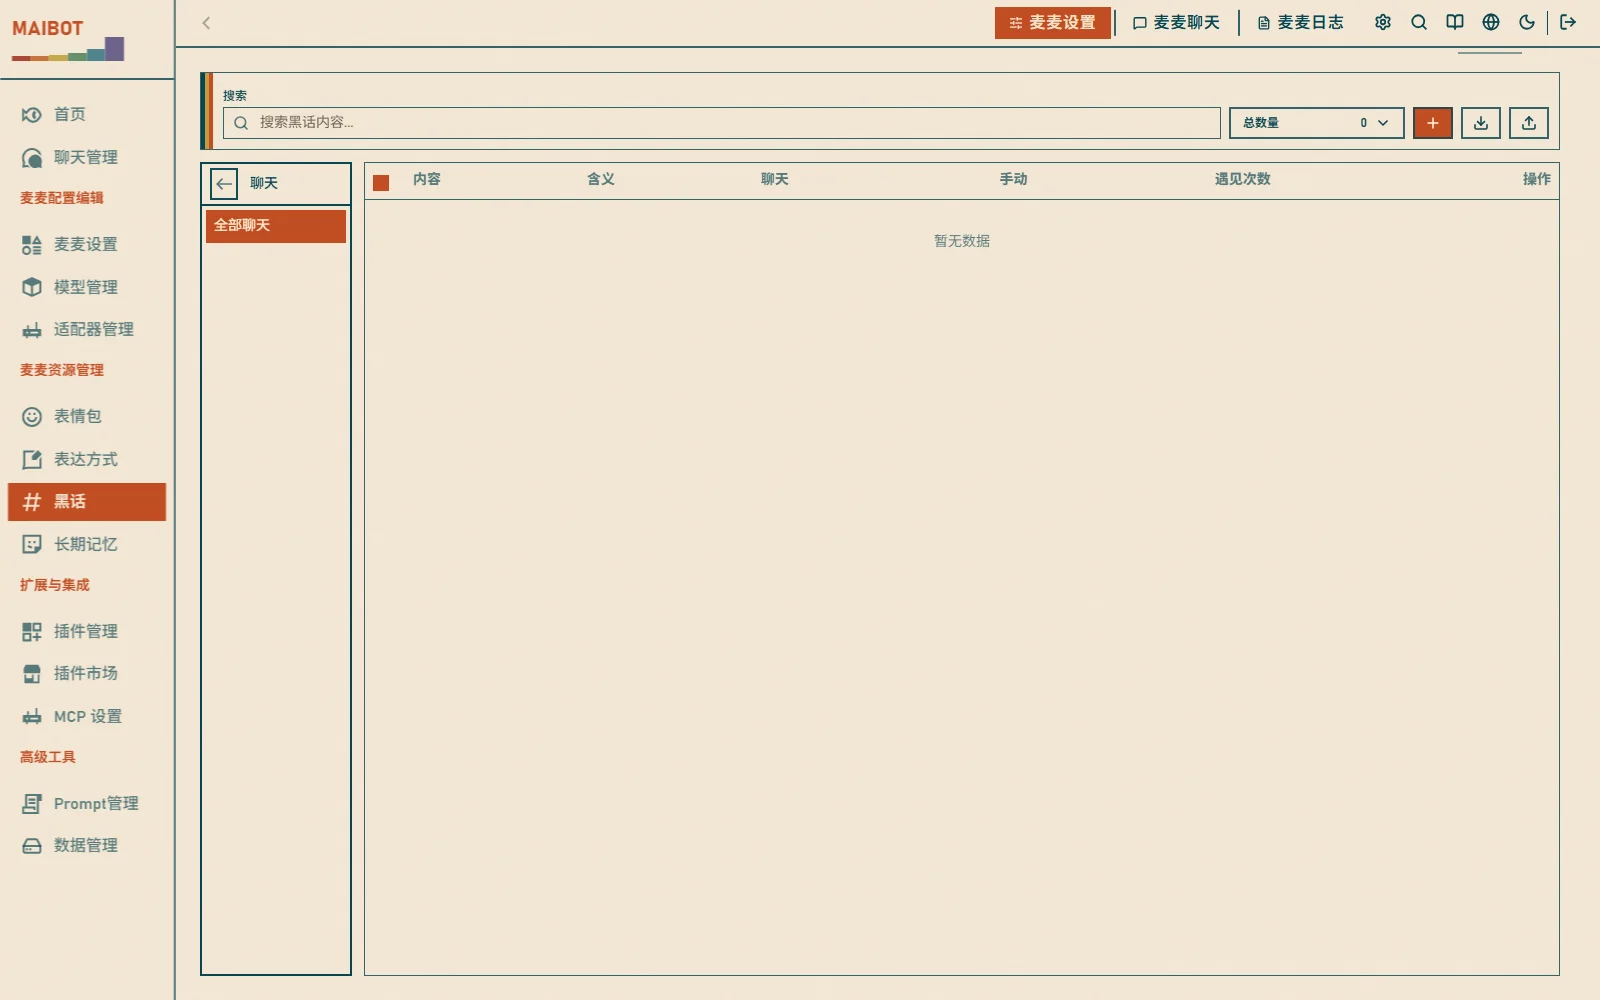
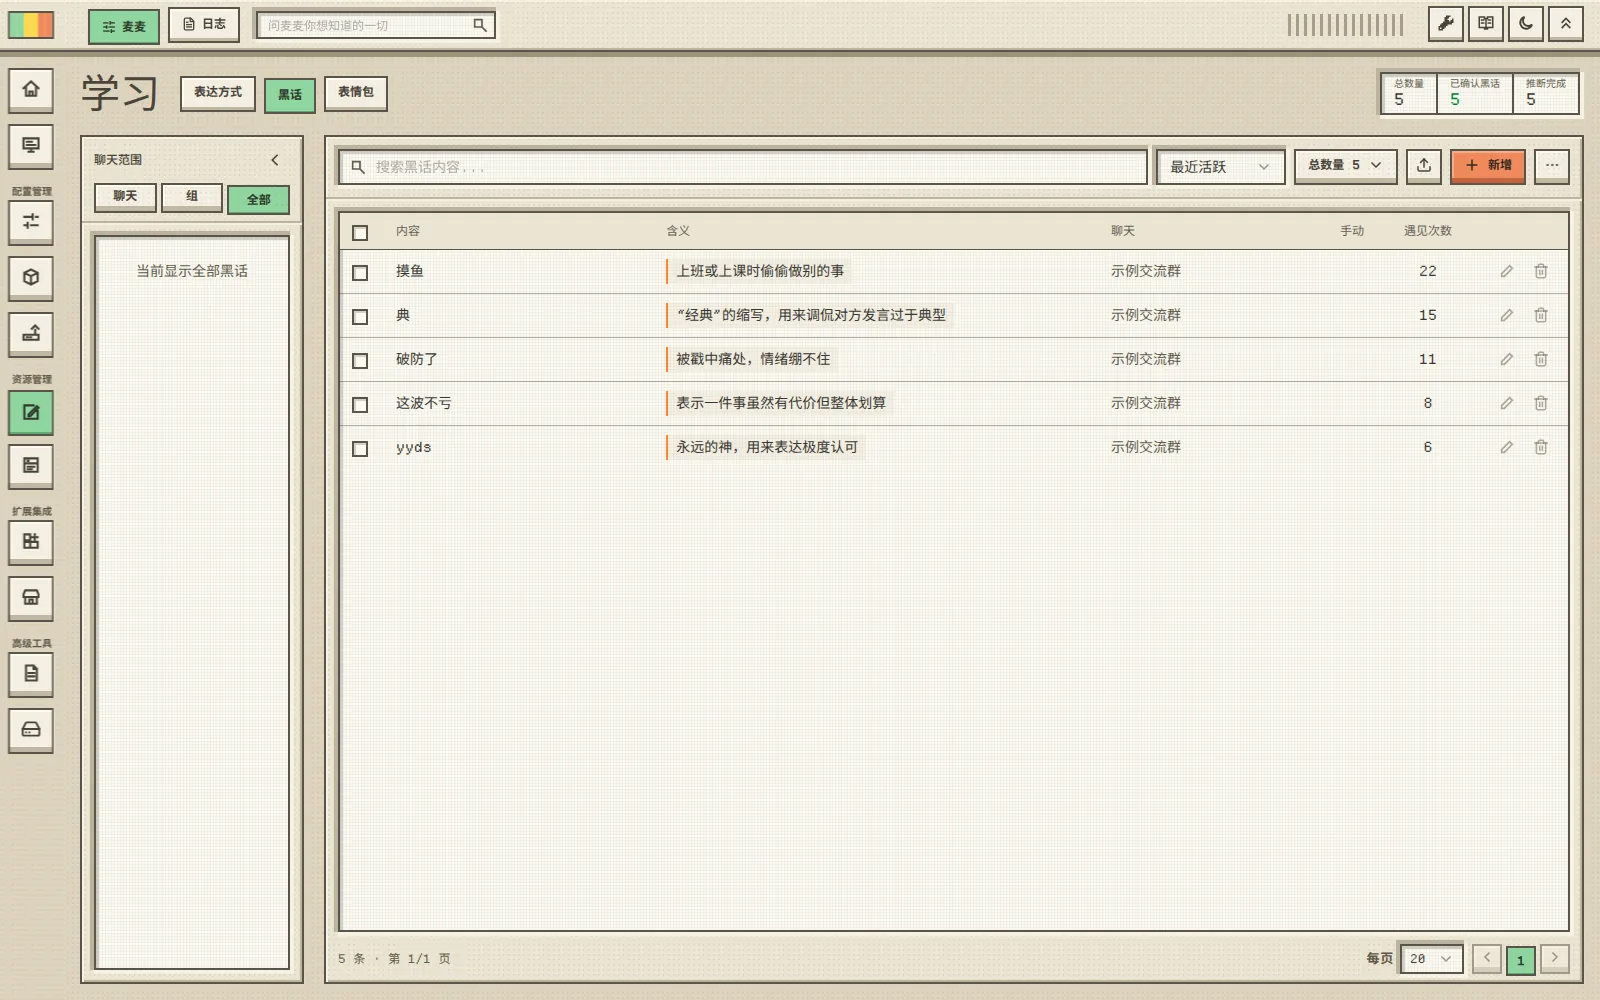
docs(manual): 新增 WebUI 学习管理与日志页（zh + en 镜像）
- 学习管理页：表达方式、黑话、表情包三个标签的审核与维护
- 日志页：终端日志的模块/级别过滤、搜索与导出；推理过程与详细统计指向统计与观察页
- 刷新页面引用的截图
- 注册 zh/en 侧边栏，WebUI 常用页面与快速上手入口补链接

diff --git a/.vitepress/sidebar/en.ts b/.vitepress/sidebar/en.ts
@@ -99,7 +99,9 @@ const manualSidebar: DefaultTheme.SidebarItem[] = [
       { text: 'Command Management', link: '/en/manual/webui/command-management' },
       { text: 'Chat Management', link: '/en/manual/webui/chat-management' },
       { text: 'Memory', link: '/en/manual/webui/memory-management' },
+      { text: 'Learning', link: '/en/manual/webui/learning' },
       { text: 'Statistics and Observation', link: '/en/manual/webui/statistics' },
+      { text: 'Logs', link: '/en/manual/webui/logs' },
       { text: 'Files and Attachments', link: '/en/manual/webui/files' },
       { text: 'Data Management', link: '/en/manual/webui/data-management' },
     ]

diff --git a/.vitepress/sidebar/zh.ts b/.vitepress/sidebar/zh.ts
@@ -112,7 +112,9 @@ const manualSidebar: DefaultTheme.SidebarItem[] = [
       { text: '命令管理', link: '/manual/webui/command-management' },
       { text: '聊天管理', link: '/manual/webui/chat-management' },
       { text: '记忆管理', link: '/manual/webui/memory-management' },
+      { text: '学习管理', link: '/manual/webui/learning' },
       { text: '统计与观察', link: '/manual/webui/statistics' },
+      { text: '日志', link: '/manual/webui/logs' },
       { text: '文件与附件', link: '/manual/webui/files' },
       { text: '数据管理', link: '/manual/webui/data-management' },
     ]

diff --git a/en/manual/webui/learning.md b/en/manual/webui/learning.md
@@ -1,0 +1,52 @@
+---
+title: Learning Management
+---
+
+# Learning Management
+
+The **学习** (Learning) page (`/resource/learning`) under "资源管理" (Resources) in the sidebar manages what Mai has learned from chats, split into three tabs: "表达方式" (Expressions), "黑话" (Jargon), and "表情包" (Emoji stickers).
+
+## Expressions
+
+Mai learns how people talk in chats: which situation calls for which style, and which sentences were actually used. The list groups entries by situation and shows the situation, style, and curated status.
+
+![Expressions](/images/webui/expression.webp)
+
+- **Chat scope** — filter by chat stream or shared group on the left; "全部" (All) shows every source, and each scope has "学习" (Learn) and "使用" (Use) switches
+- **Sorting** — "最近活跃" (Recently active) orders by last use; "仅精选" (Curated only) shows expressions marked as curated
+- **New / Edit / Delete** — add expressions by hand or fix ones learned incorrectly
+- **Export** — export the expressions in the current scope for backup or migration
+- **Card review** — swipe through expressions to approve or reject them one by one: only approved expressions are used, and rejected ones are deleted immediately; "AI审核记录" (AI review history) sits alongside
+- **Clusters** — "聚类" in the "更多操作" (More actions) menu browses expressions by semantic similarity
+
+## Jargon
+
+The jargon tab records slang and abbreviations used in the group, along with their meanings and occurrence counts.
+
+![Jargon](/images/webui/jargon.webp)
+
+- The top shows the total count, confirmed jargon, and completed inferences
+- Each row shows the term, meaning, source chat, whether it was added manually, and how often it was seen
+- "新增黑话" (New jargon) adds an entry by hand; "查看/编辑" (View/Edit) fixes the meaning; "删除" (Delete) removes it
+- "导出黑话" (Export jargon) exports the current scope
+
+## Emoji Stickers
+
+The emoji tab manages the stickers Mai can send: upload, review, block, and delete.
+
+![Emoji stickers](/images/webui/emoji.webp)
+
+- **Status filter** — registered, pending · recognized, pending · unrecognized, disabled, or all
+- **Format and sorting** — filter by format, sort by registration or upload time, and switch card size
+- **Upload** — add a new sticker; its content is recognized automatically and it lands in "pending · recognized" or "pending · unrecognized" based on the result
+- **Card actions** — edit the description, block it (stop sending), or delete it
+
+## Learning Scope
+
+Expression and jargon learning scopes are controlled by `[expression].learning_list` and `[jargon].learning_list`; each chat stream can also turn learning and use on or off in its settings. See [Bot Config → Learning Systems](../configuration/bot-config.md#learning-systems) for the scope and blocklist syntax.
+
+## Related Docs
+
+- [Bot Config → Learning Systems](../configuration/bot-config.md#learning-systems) — `learning_list`, `learning_blacklist`, and shared groups
+- [Bot Config → Collect Emoji Stickers](../configuration/bot-config.md#collect-emoji-stickers) — automatic sticker collection, capacity, and replacement
+- [Chat Management](./chat-management.md) — turn learning and use on or off in chat stream settings

diff --git a/zh/manual/webui/learning.md b/zh/manual/webui/learning.md
@@ -1,0 +1,52 @@
+---
+title: 学习管理
+---
+
+# 学习管理
+
+侧边栏「资源管理 → 学习」（`/resource/learning`）集中管理麦麦从聊天里学到的东西，分「表达方式」「黑话」「表情包」三个标签。
+
+## 表达方式
+
+麦麦会在聊天里学习别人怎么说话：什么情境、用什么风格、说过哪些句子。列表按情境分行，显示情境、风格和精选状态。
+
+![表达方式](/images/webui/expression.webp)
+
+- **聊天范围** — 左侧按聊天流或共享组过滤，「全部」显示所有来源；每个范围旁边有「学习」和「使用」开关
+- **排序** — 「最近活跃」按最近使用时间排序，「仅精选」只显示标为精选的表达
+- **新增 / 编辑 / 删除** — 手动补充表达方式，或修正学错的内容
+- **导出** — 把当前范围的表达方式导出成文件，方便备份或迁移
+- **卡片审核** — 用滑卡方式逐条「通过」或「拒绝」：通过的表达才会被使用，拒绝的会直接删除；旁边可以查看「AI审核记录」
+- **聚类** — 「更多操作」里的「聚类」按语义相似度浏览表达方式
+
+## 黑话
+
+黑话标签记录群里的梗和缩写，以及它们的含义和出现次数。
+
+![黑话](/images/webui/jargon.webp)
+
+- 顶部统计总数量、已确认黑话和推断完成的数量
+- 列表显示内容、含义、来源聊天、是否手动添加和遇见次数
+- 「新增黑话」手动录入；「查看/编辑」修正含义；「删除」移除
+- 「导出黑话」导出当前范围的黑话
+
+## 表情包
+
+表情包标签管理麦麦能发的表情：上传、审核、封禁和删除。
+
+![表情包](/images/webui/emoji.webp)
+
+- **状态筛选** — 已注册、待审核 · 已识别、待审核 · 未识别、已禁用、全部
+- **格式与排序** — 按格式筛选，按注册时间或上传时间排序，切换卡片大小
+- **上传** — 添加新表情，上传后自动识别内容，再按识别结果进入「待审核 · 已识别」或「待审核 · 未识别」
+- **卡片操作** — 编辑描述、封禁（不再发送）、删除
+
+## 学习范围
+
+表达和黑话的学习范围由 `[expression].learning_list` 和 `[jargon].learning_list` 控制，每个聊天流也可以在聊天流设置里单独开关学习和使用。范围和黑名单的写法见 [Bot 配置 → 学习系统](../configuration/bot-config.md#学习系统)。
+
+## 相关文档
+
+- [Bot 配置 → 学习系统](../configuration/bot-config.md#学习系统) — `learning_list`、`learning_blacklist` 与共享组
+- [Bot 配置 → 收集表情包](../configuration/bot-config.md#收集表情包) — 表情包自动收集、容量与替换
+- [聊天管理](./chat-management.md) — 在聊天流设置里开关学习和使用

diff --git a/en/manual/webui/logs.md b/en/manual/webui/logs.md
@@ -1,0 +1,33 @@
+---
+title: Logs
+---
+
+# Logs
+
+The Logs page (`/logs`) collects MaiBot's runtime logs in one place: filter by module and level, search by keyword, and export to a file. The "Reasoning" and "Detailed statistics" tabs on the same page are covered in [Statistics and Observation](./statistics.md).
+
+## Terminal
+
+![Terminal logs](/images/webui/logs-terminal.webp)
+
+- **Module filter** — the left side lists log sources (`WebUI`, `webui.chat`, the chat manager, `maibot_statistic`, and so on); pick one to see only that module's output
+- **Level** — choose the minimum level to show that level and above
+- **Time and keywords** — filter by time range, or type keywords in the search box
+- **Scrolling** — new logs scroll to the bottom automatically; scrolling back pauses it
+- **Clear / Export** — clear the current view or export the logs as a TXT file
+
+The top of the page shows the live connection status and how many log entries are loaded.
+
+## Verification and Troubleshooting
+
+**Verify**: set the level to `ERROR` — the panel should immediately show only errors; export a TXT and open it to confirm the content is complete.
+
+- **No new logs** — check the connection status at the top of the page; the page needs to reconnect after the host restarts.
+- **Logs scroll too fast to read** — narrow the module filter or time range; logs are also written to the instance's `logs/` directory, so you can read the files directly.
+- **Keyword search finds nothing** — switch the module filter back to "All" first; the module filter applies to search results too.
+
+## Related Docs
+
+- [Bot Config → Check Logs First When Debugging](../configuration/bot-config.md#check-logs-first-when-debugging) — log levels, file count, and retention
+- [Statistics and Observation](./statistics.md) — reasoning traces and detailed statistics
+- [Data Management](./data-management.md) — package up logs and statistics for export

diff --git a/zh/manual/webui/logs.md b/zh/manual/webui/logs.md
@@ -1,0 +1,33 @@
+---
+title: 日志
+---
+
+# 日志
+
+「日志」页（`/logs`）集中看主程序的运行日志：按模块和级别过滤，支持关键词搜索和导出。同一页的「推理过程」「详细统计」两个标签见[统计与观察](./statistics.md)。
+
+## 终端
+
+![终端日志](/images/webui/logs-terminal.webp)
+
+- **模块筛选** — 左侧列出日志来源（`WebUI`、`webui.chat`、`聊天管理器`、`maibot_statistic` 等），点选后只看该模块的输出
+- **级别** — 选择最低日志级别，显示该级别及以上的日志
+- **时间与关键词** — 按时间范围过滤，或在搜索框里输入关键词
+- **滚动** — 开启后新日志自动滚到底部；向上翻看时会自动暂停
+- **清空 / 导出** — 清空当前视图，或把日志导出成 TXT 文件
+
+页面顶部显示实时连接状态和当前加载的日志条数。
+
+## 验证与排错
+
+**验证**：把级别调到 `ERROR`，面板应随即只剩报错；再导出 TXT，打开文件确认内容完整。
+
+- **看不到新日志** — 看页面顶部的连接状态；宿主重启后页面需要重新连接。
+- **日志刷得太快看不过来** — 收窄模块筛选或时间范围；日志同时落在实例的 `logs/` 目录，可以直接看文件。
+- **关键词搜不到** — 先把模块筛选切回「全部」，模块筛选会同时过滤搜索结果。
+
+## 相关文档
+
+- [Bot 配置 → 出问题先看日志](../configuration/bot-config.md#出问题先看日志) — 日志级别、文件数量与保留天数
+- [统计与观察](./statistics.md) — 推理过程与详细统计
+- [数据管理](./data-management.md) — 打包导出日志和统计数据

diff --git a/en/manual/webui/index.md b/en/manual/webui/index.md
@@ -49,8 +49,10 @@ The other item at the bottom of the sidebar is the update entry, which shows a n
 - **Mai settings** — Sectioned forms for `bot_config.toml`; see [Edit config in the browser](./config-management.md).
 - **Model management** — Providers, models, and task assignment; see [Model configuration](../configuration/model-config.md).
 - **Adapter settings** — Account identity, allowlists, and denylists; see [Adapter management](./adapter-management.md).
+- **Learning** — Review and maintain expressions, jargon, and emoji stickers; see [Learning](./learning.md).
 - **Detailed statistics** — Model calls, tokens, cost, and message counts; see [Statistics and observation](./statistics.md).
 - **Reasoning process** — Prompt stages and tool call records for each Planner and Replyer run.
+- **Logs** — Filter runtime logs by module and level, search, and export; see [Logs](./logs.md).
 - **Files** — Attachment upload, download, and text reading; see [Files and attachments](./files.md).
 - **Plugin extensions / Plugin market** — Install and manage plugins; see [Plugins](../plugins/).
 - **Data management** — Package export and import; see [Data management](./data-management.md).

diff --git a/en/manual/index.md b/en/manual/index.md
@@ -50,7 +50,7 @@ Once that works, send MaiBot a message. A reply means both the model and the pla
 
 **[Connect platforms](./adapters/)** — Adapter selection and setup: QQ, Telegram, WeChat ClawBot, email, iMessage, voice calls.
 
-**[WebUI](./webui/)** — Login, editing config, chat and observation, statistics, file management, data migration.
+**[WebUI](./webui/)** — Login, editing config, chat and observation, learning, statistics, logs, file management, data migration.
 
 **[Plugins](./plugins/)** — Install, enable, and update plugins from the plugin market.
 
